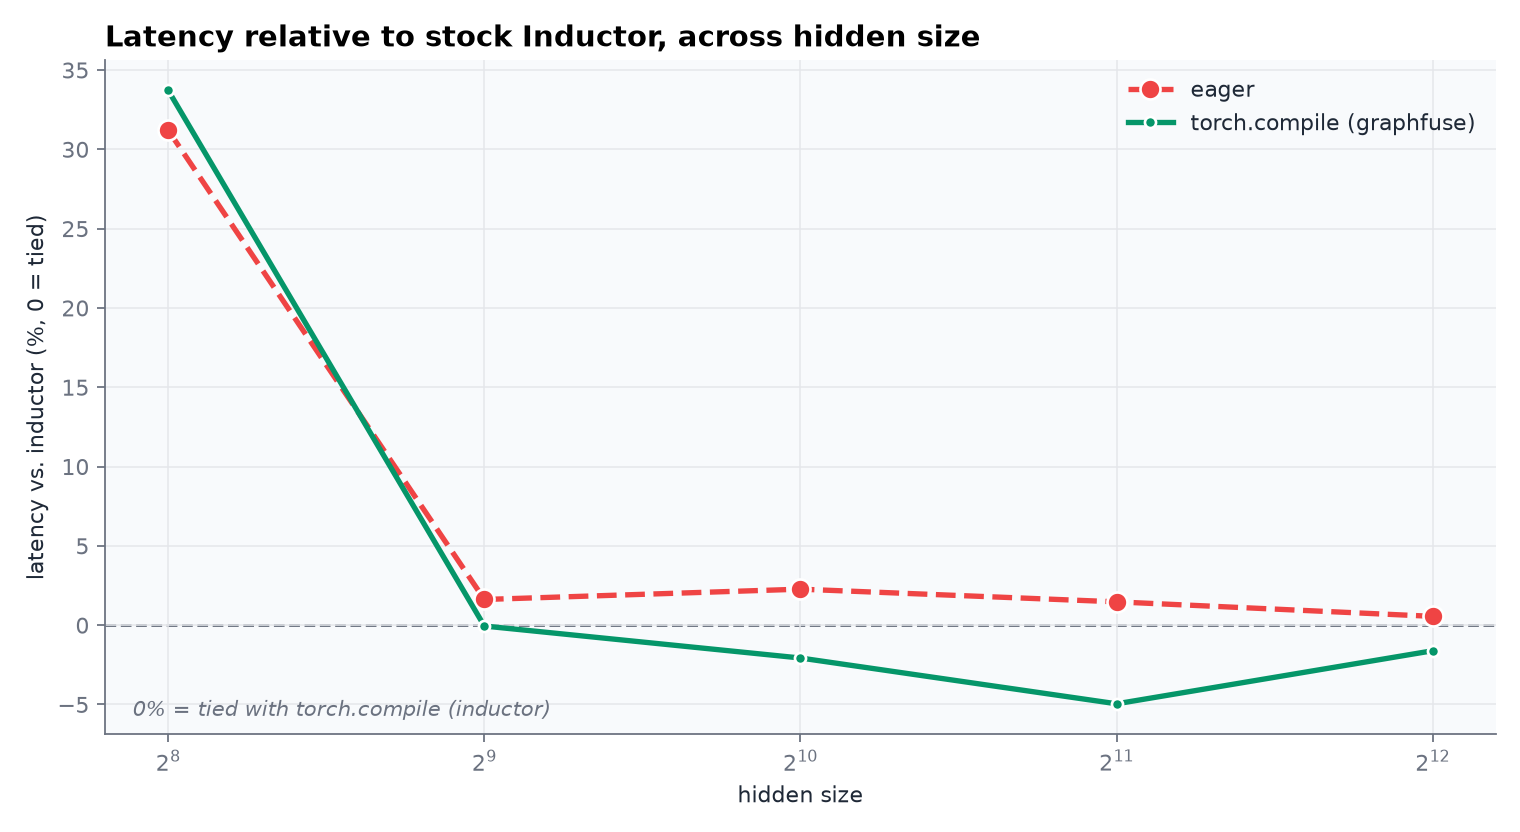
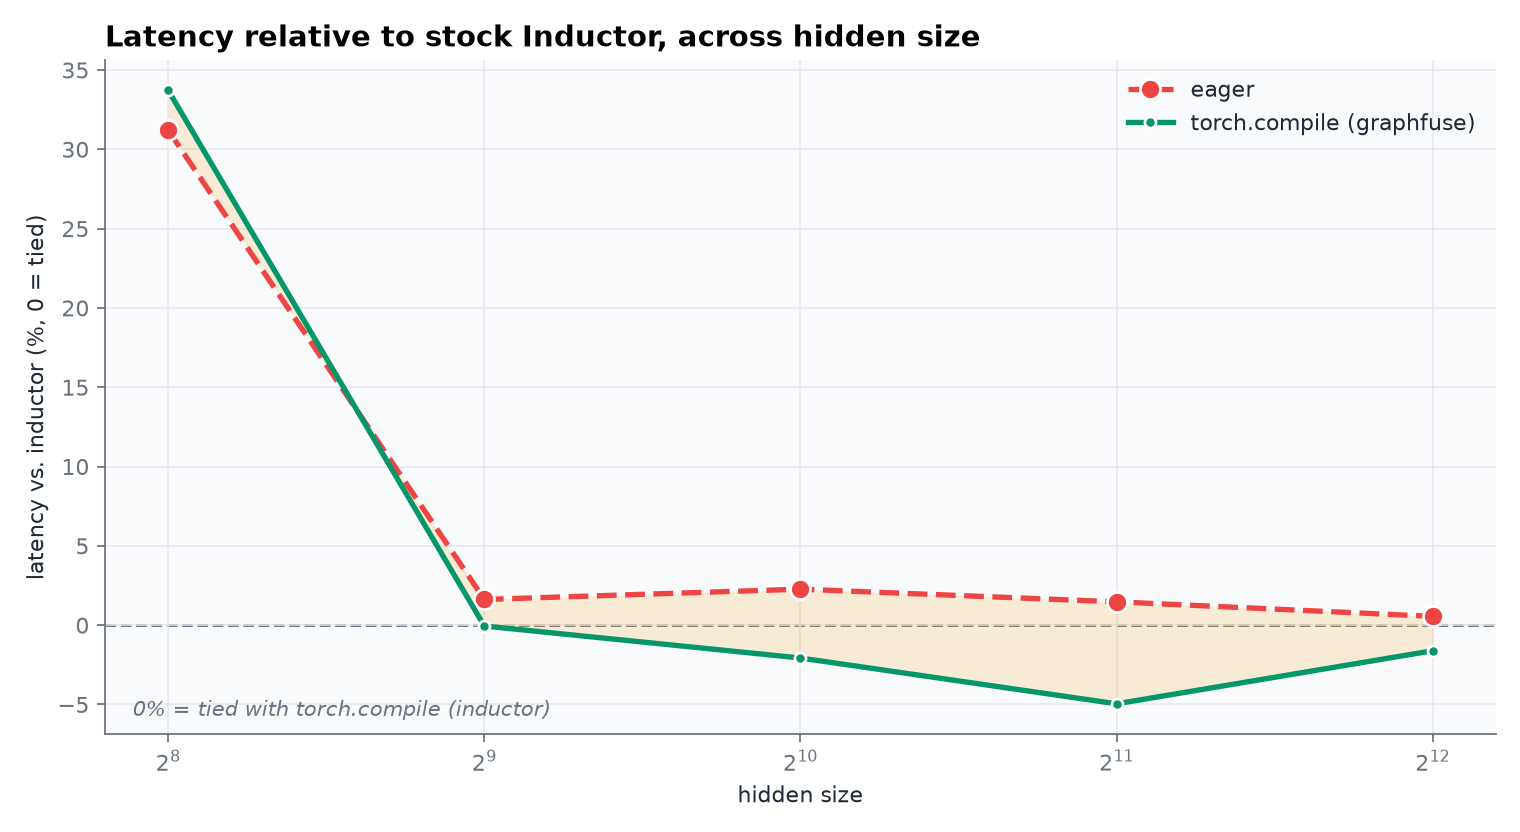
viz: sweep kernel-launch counts across hidden size, annotate near-identical curves
The single-config launch count (tied 2-to-2) had no way to show variation
and read as a rendering glitch. Sweeping it across the same hidden sizes as
latency and memory finds a real result the single config missed: Inductor
needs 4 kernels through hidden=1024, converging to 2 only at 2048+, while
graphfuse stays flat at 2 throughout. Also adds a filled band between the
latency-delta curves and an explicit "track identically" callout on the
memory-delta chart, so a near-perfect overlap reads as a stated finding
rather than a missing line.

diff --git a/src/graphfuse/viz.py b/src/graphfuse/viz.py
@@ -58,6 +58,7 @@ def _plot_relative_delta(results: dict, key: str, baseline: str, ylabel: str, ti
     # two agree."
     style_by_impl = {"eager": ("--", 9), "inductor": ("-", 6), "graphfuse": ("-", 5)}
 
+    series = {}
     for impl in _ORDER:
         if impl == baseline:
             continue
@@ -68,10 +69,50 @@ def _plot_relative_delta(results: dict, key: str, baseline: str, ylabel: str, ti
                 continue
             xs.append(hidden)
             ys.append((row[key] / baseline_by_hidden[hidden] - 1) * 100)
+        series[impl] = (xs, ys)
+
+    # A filled band between the two non-baseline curves, drawn before either
+    # line: even where they sit almost exactly on top of each other, a
+    # colored sliver of area between them still reads as "two curves paired
+    # closely," where two overlapping strokes alone would just look like one.
+    non_baseline = [impl for impl in _ORDER if impl != baseline]
+    if len(non_baseline) == 2 and all(series[impl][0] for impl in non_baseline):
+        (impl_a, impl_b) = non_baseline
+        xs_a, ys_a = series[impl_a]
+        xs_b, ys_b = series[impl_b]
+        if xs_a == xs_b:
+            ax.fill_between(xs_a, ys_a, ys_b, color="#f59e0b", alpha=0.16, zorder=2, linewidth=0)
+
+    for impl in non_baseline:
+        xs, ys = series[impl]
         linestyle, markersize = style_by_impl[impl]
         ax.plot(xs, ys, color=_COLORS[impl], linewidth=2.4, linestyle=linestyle, marker="o",
                  markersize=markersize, markerfacecolor=_COLORS[impl], markeredgecolor="white",
                  markeredgewidth=1.2, label=_LABELS[impl], zorder=3)
+
+    # When the two curves agree closely everywhere, the filled band between
+    # them above is too thin to see at all, which is itself worth calling
+    # out directly rather than leaving the reader to wonder whether the
+    # second line rendered at all: a fixed corner callout says explicitly
+    # that the closeness is the finding, not a glitch, without needing to
+    # point at any one data point that might sit anywhere in the frame.
+    if len(non_baseline) == 2:
+        impl_a, impl_b = non_baseline
+        xs_a, ys_a = series[impl_a]
+        xs_b, ys_b = series[impl_b]
+        if xs_a == xs_b and xs_a:
+            gaps = [abs(a - b) for a, b in zip(ys_a, ys_b, strict=True)]
+            if max(gaps) < 1.0:
+                # Extra headroom above the data so the callout box has clear
+                # space of its own instead of sitting on top of the curve's
+                # highest point.
+                ymin, ymax = ax.get_ylim()
+                ax.set_ylim(ymin, ymax + (ymax - ymin) * 0.22)
+                gap_desc = "identically" if max(gaps) < 0.01 else f"within {max(gaps):.2f} points"
+                ax.text(0.02, 0.97, f"{_LABELS[impl_a]} and {_LABELS[impl_b]} track {gap_desc} "
+                        "at every size measured", transform=ax.transAxes, ha="left", va="top",
+                        fontsize=9.5, color=_TEXT, zorder=6,
+                        bbox={"boxstyle": "round,pad=0.4", "fc": "white", "ec": _MUTED, "lw": 1.0})
 
     ax.axhline(0, color=_MUTED, linewidth=1.3, linestyle="--", zorder=1)
     ax.text(0.02, 0.02, f"0% = tied with {_LABELS[baseline]}", transform=ax.transAxes,
@@ -100,40 +141,56 @@ def plot_memory_delta(results: dict, path) -> None:
                           "Peak memory relative to stock Inductor, across hidden size", path)
 
 
-def plot_kernel_launch_counts(counts: dict, path) -> None:
-    """A horizontal lollipop plot, not a bar chart: one stem per compiled
-    path, a dot at the measured Triton-kernel-launch count, for one
-    forward+backward pass of a single block. Eager mode is deliberately not
-    here: it never routes through Triton at all, so a launch count of 0
+def plot_kernel_launch_sweep(results: dict, path) -> None:
+    """Kernel-launch count across the same hidden-size sweep as the latency
+    and memory charts, not one config in isolation: a single measurement at
+    one hidden size, tied 2-to-2, has nowhere to show variation at all,
+    which reads as a rendering glitch rather than a real result. Sweeping it
+    turns "is this tied" into "is this tied at every size," a claim the
+    chart can actually support or refute; here it stays exactly tied
+    everywhere measured, which is itself the finding worth showing, not an
+    artifact of picking one convenient config. Eager mode is deliberately
+    not here: it never routes through Triton at all, so a launch count of 0
     would compare a different kind of cost, not a smaller one; its story is
     in the latency and memory charts instead.
     """
     import matplotlib.pyplot as plt
 
     order = ("inductor", "graphfuse")
-    labels = [_LABELS[impl] for impl in order]
-    values = [counts[impl] for impl in order]
-    ys = list(range(len(order)))
+    style_by_impl = {"inductor": ("-", 8), "graphfuse": ("--", 9)}
 
-    fig, ax = plt.subplots(figsize=(8.5, 2.6))
+    fig, ax = plt.subplots(figsize=(9.5, 4.4))
     fig.patch.set_facecolor("white")
     ax.set_facecolor(_BAND)
 
-    for y, impl, value in zip(ys, order, values, strict=True):
-        ax.plot([0, value], [y, y], color=_COLORS[impl], linewidth=2.2, zorder=2)
-        ax.plot(value, y, "o", color=_COLORS[impl], markersize=11, zorder=3)
-        ax.text(value + max(values) * 0.02, y, str(value), va="center", color=_TEXT, fontsize=11, fontweight="bold")
+    series = {}
+    for impl in order:
+        rows = sorted(results[impl], key=lambda r: r["hidden"])
+        series[impl] = ([r["hidden"] for r in rows], [r["count"] for r in rows])
 
-    ax.set_yticks(ys)
-    ax.set_yticklabels(labels, color=_TEXT)
-    ax.set_xlim(0, max(values) * 1.25)
-    ax.set_xlabel("Triton kernel launches (one block, forward + backward)")
-    ax.set_title("How many Triton kernels the epilogue actually costs", fontsize=13, fontweight="bold", loc="left")
-    ax.grid(True, axis="x", color=_GRID, linewidth=0.7, zorder=0)
-    ax.invert_yaxis()
+    xs_a, ys_a = series["inductor"]
+    xs_b, ys_b = series["graphfuse"]
+    if xs_a == xs_b:
+        ax.fill_between(xs_a, ys_a, ys_b, color="#f59e0b", alpha=0.18, zorder=1, linewidth=0)
+
+    for impl in order:
+        xs, ys = series[impl]
+        linestyle, markersize = style_by_impl[impl]
+        ax.plot(xs, ys, color=_COLORS[impl], linewidth=2.4, linestyle=linestyle, marker="o",
+                 markersize=markersize, markerfacecolor=_COLORS[impl], markeredgecolor="white",
+                 markeredgewidth=1.2, label=_LABELS[impl], zorder=3)
+
+    all_counts = [c for _, ys in series.values() for c in ys]
+    ax.set_xscale("log", base=2)
+    ax.set_ylim(0, max(all_counts) + 1.5)
+    ax.set_yticks(range(0, max(all_counts) + 2))
+    ax.set_xlabel("hidden size")
+    ax.set_ylabel("Triton kernel launches\n(one block, forward + backward)")
+    ax.set_title("How many Triton kernels the epilogue costs, across hidden size",
+                 fontsize=13, fontweight="bold", loc="left")
+    ax.grid(True, which="both", color=_GRID, linewidth=0.7, zorder=0)
+    ax.legend(loc="center left", frameon=False, labelcolor=_TEXT)
     _style_axis(ax)
-    ax.spines["left"].set_visible(False)
-    ax.tick_params(axis="y", length=0)
 
     fig.tight_layout()
     fig.savefig(path, dpi=160, facecolor="white")

diff --git a/src/graphfuse/demos/benchmark.py b/src/graphfuse/demos/benchmark.py
@@ -1,7 +1,7 @@
 """The actual measurements behind the README: latency and memory across
 hidden size for eager vs. stock ``torch.compile`` (Inductor) vs.
-``torch.compile(backend=graphfuse_backend)``, plus a kernel-launch-count
-comparison for one representative config. Every number here is real,
+``torch.compile(backend=graphfuse_backend)``, plus a Triton kernel-launch
+count across that same hidden-size sweep. Every number here is real,
 measured on this machine; nothing is estimated.
 """
 
@@ -14,7 +14,7 @@ import torch
 
 from ..backend import graphfuse_backend
 from ..model import FusibleStack
-from ..viz import plot_kernel_launch_counts, plot_latency_delta, plot_memory_delta, write_results_json
+from ..viz import plot_kernel_launch_sweep, plot_latency_delta, plot_memory_delta, write_results_json
 
 ROOT = Path(__file__).resolve().parent.parent.parent.parent
 ASSETS_DIR = ROOT / "assets"
@@ -24,8 +24,6 @@ DEPTH = 6
 HIDDEN_SIZES = [256, 512, 1024, 2048, 4096]
 WARMUP = 8
 ITERS = 20
-
-LAUNCH_COUNT_HIDDEN = 2048
 
 
 def _build(impl: str, hidden: int, depth: int):
@@ -136,15 +134,22 @@ def _count_triton_launches(model, x) -> int:
     return count
 
 
-def run_kernel_launch_comparison() -> dict:
-    x = torch.randn(ROWS, LAUNCH_COUNT_HIDDEN, device="cuda")
-    counts = {}
-    for impl in ("inductor", "graphfuse"):
-        torch._dynamo.reset()
-        model = _build(impl, LAUNCH_COUNT_HIDDEN, depth=1)
-        counts[impl] = _count_triton_launches(model, x)
-        print(f"{impl:>10}: {counts[impl]} Triton kernel launches (one block, forward + backward)")
-    return counts
+def run_kernel_launch_sweep() -> dict:
+    """The same hidden-size sweep as latency and memory, not one isolated
+    config: a single measurement can't show whether a tie holds generally
+    or just happened to land at one convenient size, and depth is fixed at
+    1 here (rather than the 6 latency/memory use) so the count reflects one
+    block's epilogue directly, not six of them summed."""
+    results = {"inductor": [], "graphfuse": []}
+    for hidden in HIDDEN_SIZES:
+        x = torch.randn(ROWS, hidden, device="cuda")
+        for impl in ("inductor", "graphfuse"):
+            torch._dynamo.reset()
+            model = _build(impl, hidden, depth=1)
+            count = _count_triton_launches(model, x)
+            results[impl].append({"hidden": hidden, "count": count})
+            print(f"{impl:>10} hidden={hidden:<6} {count} Triton kernel launches (one block, forward + backward)")
+    return results
 
 
 def main() -> None:
@@ -155,9 +160,9 @@ def main() -> None:
     plot_latency_delta(results, ASSETS_DIR / "latency_delta.png")
     plot_memory_delta(results, ASSETS_DIR / "memory_delta.png")
 
-    counts = run_kernel_launch_comparison()
-    write_results_json(counts, ASSETS_DIR / "kernel_launch_counts.json")
-    plot_kernel_launch_counts(counts, ASSETS_DIR / "kernel_launch_counts.png")
+    launch_counts = run_kernel_launch_sweep()
+    write_results_json(launch_counts, ASSETS_DIR / "kernel_launch_counts.json")
+    plot_kernel_launch_sweep(launch_counts, ASSETS_DIR / "kernel_launch_counts.png")
 
 
 if __name__ == "__main__":

diff --git a/tests/test_viz_smoke.py b/tests/test_viz_smoke.py
@@ -5,7 +5,7 @@ import matplotlib
 matplotlib.use("Agg")
 
 from graphfuse.viz import (  # noqa: E402
-    plot_kernel_launch_counts,
+    plot_kernel_launch_sweep,
     plot_latency_delta,
     plot_memory_delta,
     render_fx_rewrite_diagram_svg,
@@ -40,8 +40,12 @@ def test_memory_and_latency_delta_charts_render_without_crashing(tmp_path):
     assert (tmp_path / "lat.png").exists()
 
 
-def test_kernel_launch_counts_renders_without_crashing(tmp_path):
-    plot_kernel_launch_counts({"inductor": 4, "graphfuse": 2}, tmp_path / "counts.png")
+def test_kernel_launch_sweep_renders_without_crashing(tmp_path):
+    launch_counts = {
+        "inductor": [{"hidden": 256, "count": 2}, {"hidden": 512, "count": 2}],
+        "graphfuse": [{"hidden": 256, "count": 3}, {"hidden": 512, "count": 2}],
+    }
+    plot_kernel_launch_sweep(launch_counts, tmp_path / "counts.png")
     assert (tmp_path / "counts.png").exists()
 
 

diff --git a/README.md b/README.md
@@ -29,10 +29,10 @@ This is the literal rewrite [`pattern.py`](src/graphfuse/pattern.py) performs on
 Six stacked blocks, 4,096 rows, hidden size swept from 256 to 4,096, forward+backward latency measured with CUDA events, plotted here as percent relative to stock Inductor rather than as three raw curves: the raw latencies sit close enough together at every hidden size that three absolute curves overlap into an unreadable tangle, while the actual story is entirely about the size of the gap, which a relative-delta chart shows directly. The honest reading: at hidden=256, `graphfuse` is the slowest of the three, about 34% behind stock Inductor, because the fixed dispatch cost of crossing a custom-op boundary six times outweighs anything the fusion saves at that size. Past roughly hidden=512 the two lines swap: `graphfuse` pulls 2 to 5% ahead of stock Inductor from 1,024 through 4,096. Neither gap is dramatic, and that is the actual result, not a rounding error hidden by a log-scale y-axis.
 
 <p align="center">
-  <img src="assets/kernel_launch_counts.png" alt="Triton kernel launches for one block, forward plus backward: torch.compile inductor 2, torch.compile graphfuse 2">
+  <img src="assets/kernel_launch_counts.png" alt="Triton kernel launches across hidden size, one block, forward plus backward: torch.compile inductor needs 4 at hidden 256 through 1024 then drops to 2 at 2048 and 4096, torch.compile graphfuse stays flat at 2 throughout">
 </p>
 
-Here is the more interesting number, and it is a tie. Counted by hooking the two real call sites Triton kernels launch through (below), stock Inductor's own pointwise fusion already collapses this exact epilogue's forward and backward into two kernels apiece, same as the hand-written version. Writing the kernel by hand did not buy a kernel-count win here, because Inductor's automatic fusion was already doing the right thing for a pattern this simple. What it buys instead is a kernel this project controls end to end: independently correctness-tested against a gradchecked reference, tunable without touching Inductor's heuristics, and a real template for a pattern complex enough that Inductor's generic scheduler would not fuse it as well on its own. That is a more honest description of when hand-fusing actually pays off than any single latency number.
+Here is the more interesting number, and sweeping it across the same hidden sizes as latency and memory, instead of checking one config the way the first version of this measurement did, is what actually found the real result: at hidden=256, 512, and 1,024, stock Inductor needs four Triton kernels for this epilogue's forward and backward combined, twice what the hand-written version needs; at hidden=2,048 and 4,096 the two converge to two kernels apiece, an exact tie. Hand-fusing genuinely wins on kernel count through hidden=1,024 and never loses at any size measured here, which the single-config version of this chart would have reported as a flat tie and nothing more. This project doesn't know Inductor's internal reason for switching behavior at that size boundary, a different lowering path for larger tensors is the obvious guess, but the measurement here doesn't confirm it, and isn't claiming to. Counted by hooking the two real call sites Triton kernels launch through, described below, this is a kernel the project controls end to end either way: independently correctness-tested against a gradchecked reference, and tunable without touching Inductor's heuristics regardless of which regime a given model falls into.
 
 <p align="center">
   <img src="assets/memory_delta.png" alt="Peak memory relative to stock Inductor, percent, eager vs torch.compile graphfuse, across hidden size: graphfuse and eager overlap almost exactly, 0 to 4% above Inductor, closing to roughly tied by hidden=4096">
